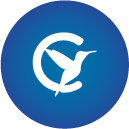
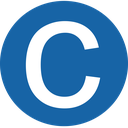
Cambio de imagenes para PWA

diff --git a/public/sw.js b/public/sw.js
@@ -1,91 +1,89 @@
-;
 //asignar un nombre y versión al cache
-const CACHE_NAME = 'v1_cache_credisys',
-  urlsToCache = [
-    './',
-    'https://stackpath.bootstrapcdn.com/bootstrap/4.5.2/css/bootstrap.min.css',
-    'https://use.fontawesome.com/releases/v5.1.0/css/all.css',
-    'css/index/styles.css',
-    'images/index/portada.png',
-    'images/index/icono_1024.png',
-    'images/asistencia/contenido_temperatura.svg',
-    'images/asistencia/fondo_temperatura.png',
-    'images/asistencia/fondo-validacion.png',
-    'images/asistencia/fondo-validacion.svg',
-    'images/asistencia/fondo.png',
-    'images/asistencia/fondo.svg',
-    'images/asistencia/pipet.svg',
-    'images/asistencia/ubicacion.svg',
-    'images/error-img/astronaut.svg',
-    'images/error-img/earth.svg',
-    'images/error-img/imagenerror.svg',
-    'images/error-img/logoBlanco.svg',
-    'images/error-img/moon.svg',
-    'images/error-img/overlay_stars.svg',
-    'images/error-img/rocket.svg',
-    'images/general/foto-usuario.png',
-    'images/general/foto-usuario.svg',
-    'images/general/logo-azul-blanco-1.svg',
-    'images/general/logo-azul-blanco-2.svg',
-    'images/general/logo-azul-verde.svg',
-    'images/general/logo-blanco-verde-1.svg',
-    'images/general/logo-blanco.png',
-    'images/general/logo-blanco.svg',
-    'images/general/logo-corto-azul.svg',
-    'images/general/logo-corto-blanco.png',
-    'images/general/logo-corto-blanco.svg',
-    'images/general/logo-corto-verde.svg',
-    'images/general/logo-plomo.svg',
-    'images/home/portada-sistema.svg',
-    'images/login/passwordIcon.svg',
-    'images/login/userIcon.svg'
-  ]
+const CACHE_NAME = "v1_cache_credisys",
+    urlsToCache = [
+        "./",
+        "https://stackpath.bootstrapcdn.com/bootstrap/4.5.2/css/bootstrap.min.css",
+        "https://use.fontawesome.com/releases/v5.1.0/css/all.css",
+        "css/index/styles.css",
+        "images/index/icono_1024.png",
+        "images/asistencia/contenido_temperatura.svg",
+        "images/asistencia/fondo_temperatura.png",
+        "images/asistencia/fondo-validacion.png",
+        "images/asistencia/fondo-validacion.svg",
+        "images/asistencia/fondo.png",
+        "images/asistencia/fondo.svg",
+        "images/asistencia/pipet.svg",
+        "images/asistencia/ubicacion.svg",
+        "images/error-img/astronaut.svg",
+        "images/error-img/earth.svg",
+        "images/error-img/imagenerror.svg",
+        "images/error-img/logoBlanco.svg",
+        "images/error-img/moon.svg",
+        "images/error-img/overlay_stars.svg",
+        "images/error-img/rocket.svg",
+        "images/general/foto-usuario.png",
+        "images/general/foto-usuario.svg",
+        "images/general/logo-azul-blanco-1.svg",
+        "images/general/logo-azul-blanco-2.svg",
+        "images/general/logo-azul-verde.svg",
+        "images/general/logo-blanco-verde-1.svg",
+        "images/general/logo-blanco.png",
+        "images/general/logo-blanco.svg",
+        "images/general/logo-corto-azul.svg",
+        "images/general/logo-corto-blanco.png",
+        "images/general/logo-corto-blanco.svg",
+        "images/general/logo-corto-verde.svg",
+        "images/general/logo-plomo.svg",
+        "images/home/portada-sistema.svg",
+        "images/login/passwordIcon.svg",
+        "images/login/userIcon.svg",
+    ];
 
 //durante la fase de instalación, generalmente se almacena en caché los activos estáticos
-self.addEventListener('install', e => {
-  e.waitUntil(
-    caches.open(CACHE_NAME)
-      .then(cache => {
-        return cache.addAll(urlsToCache)
-          .then(() => self.skipWaiting())
-      })
-      .catch(err => console.log('Falló registro de cache', err))
-  )
-})
+self.addEventListener("install", (e) => {
+    e.waitUntil(
+        caches
+            .open(CACHE_NAME)
+            .then((cache) => {
+                return cache.addAll(urlsToCache).then(() => self.skipWaiting());
+            })
+            .catch((err) => console.log("Falló registro de cache", err))
+    );
+});
 
 //una vez que se instala el SW, se activa y busca los recursos para hacer que funcione sin conexión
-self.addEventListener('activate', e => {
-  const cacheWhitelist = [CACHE_NAME]
+self.addEventListener("activate", (e) => {
+    const cacheWhitelist = [CACHE_NAME];
 
-  e.waitUntil(
-    caches.keys()
-      .then(cacheNames => {
-        return Promise.all(
-          cacheNames.map(cacheName => {
-            //Eliminamos lo que ya no se necesita en cache
-            if (cacheWhitelist.indexOf(cacheName) === -1) {
-              return caches.delete(cacheName)
-            }
-          })
-        )
-      })
-      // Le indica al SW activar el cache actual
-      .then(() => self.clients.claim())
-  )
-})
+    e.waitUntil(
+        caches
+            .keys()
+            .then((cacheNames) => {
+                return Promise.all(
+                    cacheNames.map((cacheName) => {
+                        //Eliminamos lo que ya no se necesita en cache
+                        if (cacheWhitelist.indexOf(cacheName) === -1) {
+                            return caches.delete(cacheName);
+                        }
+                    })
+                );
+            })
+            // Le indica al SW activar el cache actual
+            .then(() => self.clients.claim())
+    );
+});
 
 //cuando el navegador recupera una url
-self.addEventListener('fetch', e => {
-  //Responder ya sea con el objeto en caché o continuar y buscar la url real
-  e.respondWith(
-    caches.match(e.request)
-      .then(res => {
-        if (res) {
-          //recuperar del cache
-          return res
-        }
-        //recuperar de la petición a la url
-        return fetch(e.request)
-      })
-  )
-})
+self.addEventListener("fetch", (e) => {
+    //Responder ya sea con el objeto en caché o continuar y buscar la url real
+    e.respondWith(
+        caches.match(e.request).then((res) => {
+            if (res) {
+                //recuperar del cache
+                return res;
+            }
+            //recuperar de la petición a la url
+            return fetch(e.request);
+        })
+    );
+});

diff --git a/resources/views/welcome.blade.php b/resources/views/welcome.blade.php
@@ -2,7 +2,7 @@
 <html lang="es">
 
 <head>
-    <title>CrediApp</title>
+    <title>CredyApp</title>
     <meta charset="UTF-8">
 
     <meta http-equiv="Expires" content="0">
